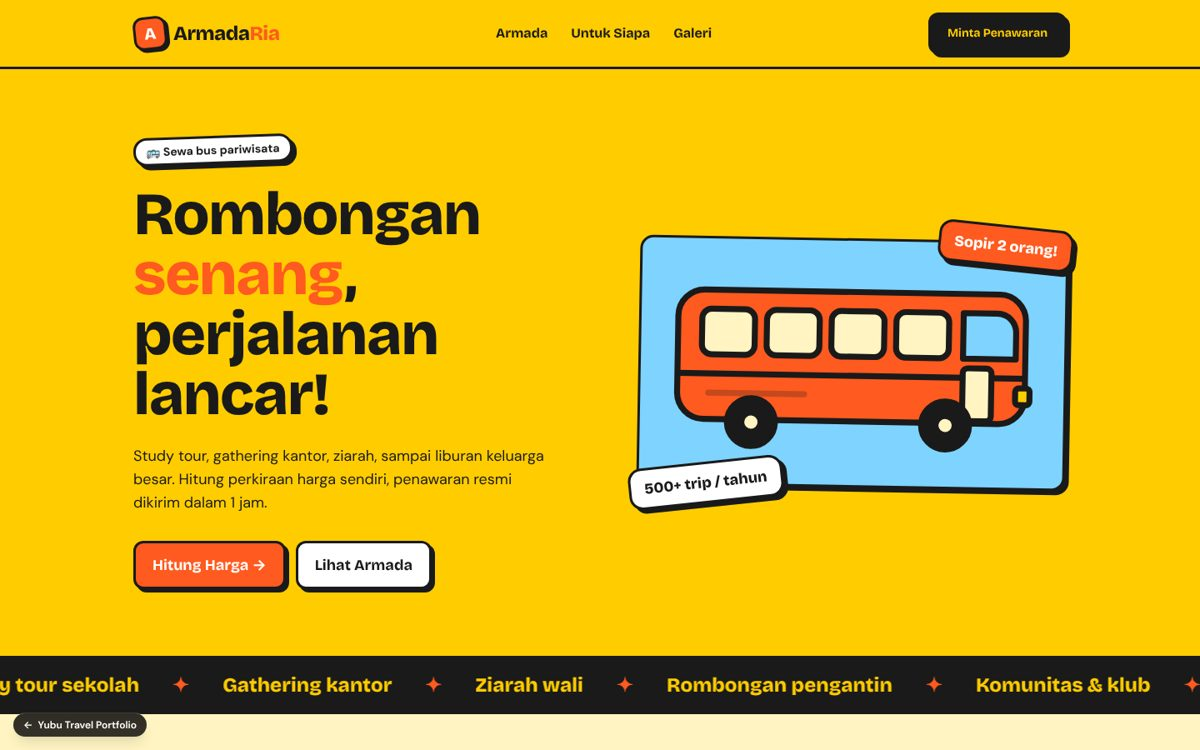
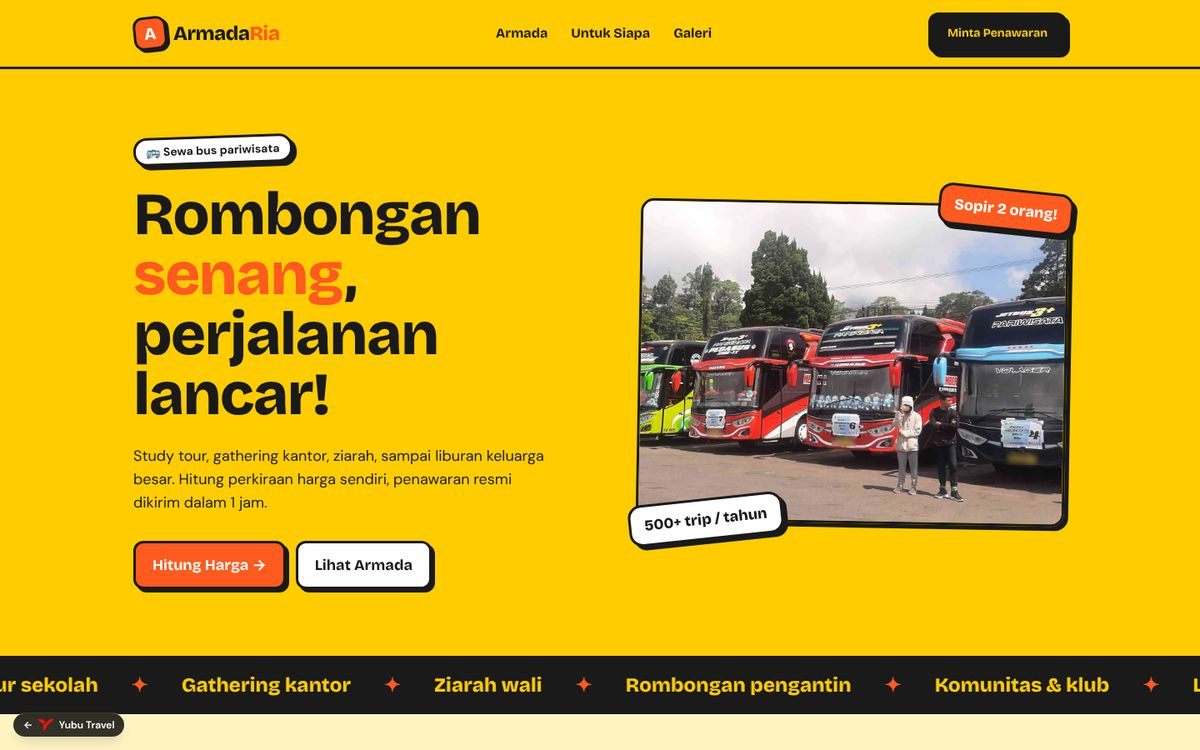
Pasang foto Armada Ria: hero, 4 armada, 4 galeri
- Hero barisan bus pariwisata, foto Big Bus, Medium Bus, Elf, Hiace
- Galeri study tour, gathering, interior bus, dan rombongan wisata
- Latar Big Bus dibersihkan, plat nomor diburamkan

Claude-Session: https://claude.ai/code/session_01T9xYak59ohEDkUVoekzEJy

Changed region(s): [[0.5242, 0.2453, 0.925, 0.736], [0.0, 0.8893, 1.0, 0.9813]]

diff --git a/src/app/armada-ria/data.ts b/src/app/armada-ria/data.ts
@@ -4,8 +4,8 @@ export const RIA_WA = "6281234567890";
 
 /** Foto dari pengguna; selama null halaman memakai ilustrasi bus. */
 export const IMAGES: { hero: string | null; gallery: (string | null)[] } = {
-  hero: null,
-  gallery: [null, null, null, null],
+  hero: "/armada-ria/hero.jpg",
+  gallery: ["/armada-ria/gallery-1.jpg", "/armada-ria/gallery-2.jpg", "/armada-ria/gallery-3.jpg", "/armada-ria/gallery-4.jpg"],
 };
 
 export type Bus = {
@@ -19,10 +19,10 @@ export type Bus = {
 };
 
 export const BUSES: Bus[] = [
-  { id: "big", name: "Big Bus", seats: 50, perDay: 3500000, color: "#ff5a1f", image: null, features: ["Toilet", "Karaoke", "Bagasi besar"] },
-  { id: "medium", name: "Medium Bus", seats: 31, perDay: 2500000, color: "#ffcc00", image: null, features: ["Reclining seat", "TV & audio", "USB charger"] },
-  { id: "elf", name: "Elf Long", seats: 19, perDay: 1500000, color: "#7fd3ff", image: null, features: ["AC dingin", "Lincah di jalan kecil", "Bagasi atas"] },
-  { id: "hiace", name: "Hiace Commuter", seats: 14, perDay: 1200000, color: "#b5e86b", image: null, features: ["Kabin nyaman", "Cocok keluarga", "Hemat"] },
+  { id: "big", name: "Big Bus", seats: 50, perDay: 3500000, color: "#ff5a1f", image: "/armada-ria/big.jpg", features: ["Toilet", "Karaoke", "Bagasi besar"] },
+  { id: "medium", name: "Medium Bus", seats: 31, perDay: 2500000, color: "#ffcc00", image: "/armada-ria/medium.jpg", features: ["Reclining seat", "TV & audio", "USB charger"] },
+  { id: "elf", name: "Elf Long", seats: 19, perDay: 1500000, color: "#7fd3ff", image: "/armada-ria/elf.jpg", features: ["AC dingin", "Lincah di jalan kecil", "Bagasi atas"] },
+  { id: "hiace", name: "Hiace Commuter", seats: 14, perDay: 1200000, color: "#b5e86b", image: "/armada-ria/hiace.jpg", features: ["Kabin nyaman", "Cocok keluarga", "Hemat"] },
 ];
 
 export const DISTANCES = [
